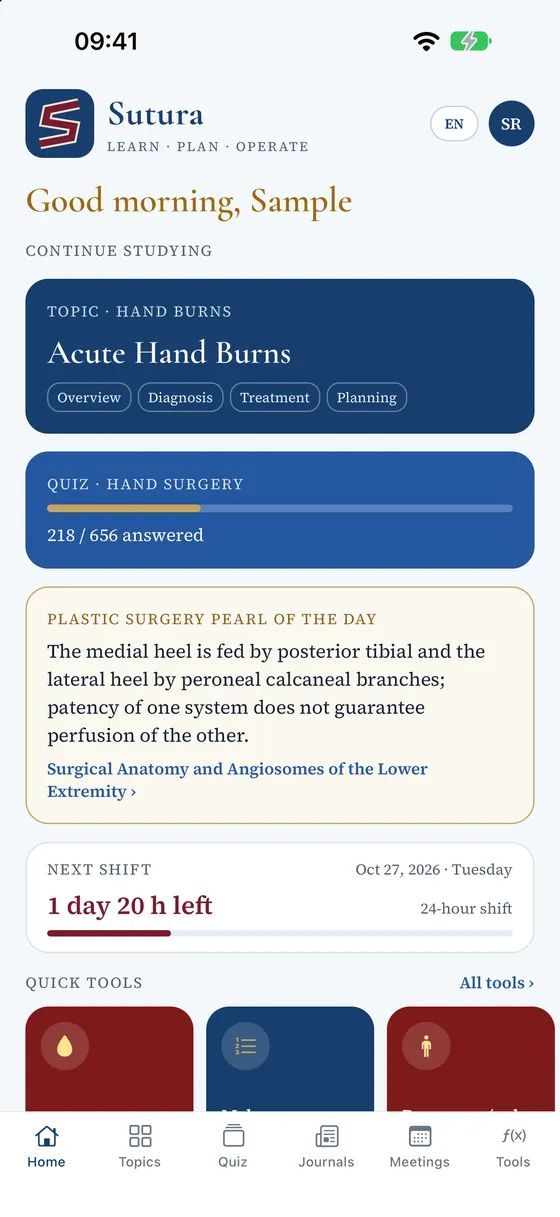
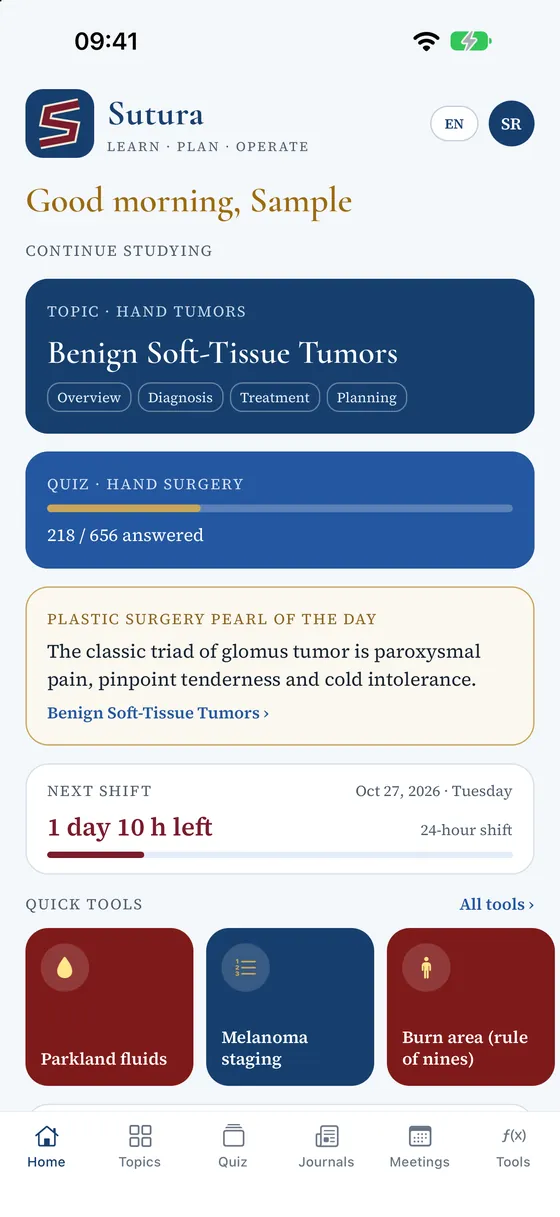
Gallery: refresh home and mock exam screens, add journals screen
Claude-Session: https://claude.ai/code/session_01YRQYN77XUnY27DD6735pjc

diff --git a/sutura/index.html b/sutura/index.html
@@ -44,12 +44,13 @@
 <h2 id="inside-en">A look inside</h2>
 <p class="gallery-intro">Screens from the app with sample data. Coming soon to the App Store and Google Play.</p>
 <div class="gallery" tabindex="0" role="region" aria-label="A look inside">
-<figure class="shot"><div class="phone"><img src="/assets/screens/en-01-home.webp" width="560" height="1217" loading="lazy" decoding="async" alt="Sutura home screen: today's topic, quiz progress, the pearl of the day and a countdown to the next on-call shift."></div><figcaption>Home</figcaption></figure>
+<figure class="shot"><div class="phone"><img src="/assets/screens/en-01-home.webp" width="560" height="1217" loading="lazy" decoding="async" alt="Sutura home screen: today's topic, quiz progress, the pearl of the day, a countdown to the next on-call shift and quick tools."></div><figcaption>Home</figcaption></figure>
 <figure class="shot"><div class="phone"><img src="/assets/screens/en-02-quiz-answered.webp" width="560" height="1217" loading="lazy" decoding="async" alt="An answered burn surgery question with the correct choice highlighted, a short explanation and numbered sources."></div><figcaption>Questions with explanations</figcaption></figure>
 <figure class="shot"><div class="phone"><img src="/assets/screens/en-03-topic-figure.webp" width="560" height="1217" loading="lazy" decoding="async" alt="A topic page showing the AO/OTA distal radius classification diagram and radiographic measurement figures."></div><figcaption>Diagrams and figures</figcaption></figure>
-<figure class="shot"><div class="phone"><img src="/assets/screens/en-04-mock-result.webp" width="560" height="1217" loading="lazy" decoding="async" alt="Mock exam result: overall score of 70 percent, scores by category and a list of topics to review."></div><figcaption>Board-format mock exams</figcaption></figure>
+<figure class="shot"><div class="phone"><img src="/assets/screens/en-04-mock-result.webp" width="560" height="1217" loading="lazy" decoding="async" alt="Board-format practice exam result: overall score of 70 percent, scores by category and a list of topics to review."></div><figcaption>Board-format mock exams</figcaption></figure>
 <figure class="shot"><div class="phone"><img src="/assets/screens/en-05-study-plan.webp" width="560" height="1217" loading="lazy" decoding="async" alt="Personal exam preparation plan with the exam date, days remaining, a daily question target and weekly topics."></div><figcaption>Personal study plan</figcaption></figure>
 <figure class="shot"><div class="phone"><img src="/assets/screens/en-06-league.webp" width="560" height="1217" loading="lazy" decoding="async" alt="Weekly league standings showing nicknames and points, with the user's own rank highlighted."></div><figcaption>Weekly league</figcaption></figure>
+<figure class="shot"><div class="phone"><img src="/assets/screens/en-11-journals.webp" width="560" height="1217" loading="lazy" decoding="async" alt="Journals screen showing the latest issue of followed plastic surgery journals, with volume, issue and article counts."></div><figcaption>Latest journal issues</figcaption></figure>
 </div>
 </section>
 <section class="section">

diff --git a/tr/sutura/index.html b/tr/sutura/index.html
@@ -50,6 +50,7 @@
 <figure class="shot"><div class="phone"><img src="/assets/screens/tr-04-mock-result.webp" width="560" height="1217" loading="lazy" decoding="async" alt="Deneme sınavı sonucu: yüzde 70 genel puan, kategorilere göre sonuçlar ve tekrar edilecek konular."></div><figcaption>Board formatında denemeler</figcaption></figure>
 <figure class="shot"><div class="phone"><img src="/assets/screens/tr-05-study-plan.webp" width="560" height="1217" loading="lazy" decoding="async" alt="Kişisel sınav hazırlık planı: sınav tarihi, kalan gün, günlük soru hedefi ve haftalık konular."></div><figcaption>Kişisel çalışma planı</figcaption></figure>
 <figure class="shot"><div class="phone"><img src="/assets/screens/tr-06-league.webp" width="560" height="1217" loading="lazy" decoding="async" alt="Haftalık lig sıralaması: takma adlar ve puanlar, kullanıcının kendi sırası vurgulanmış."></div><figcaption>Haftalık lig</figcaption></figure>
+<figure class="shot"><div class="phone"><img src="/assets/screens/tr-11-journals.webp" width="560" height="1217" loading="lazy" decoding="async" alt="Dergiler ekranı: takip edilen plastik cerrahi dergilerinin son sayıları, cilt, sayı ve makale sayısıyla."></div><figcaption>Dergilerin son sayıları</figcaption></figure>
 </div>
 </section>
 <section class="section">
